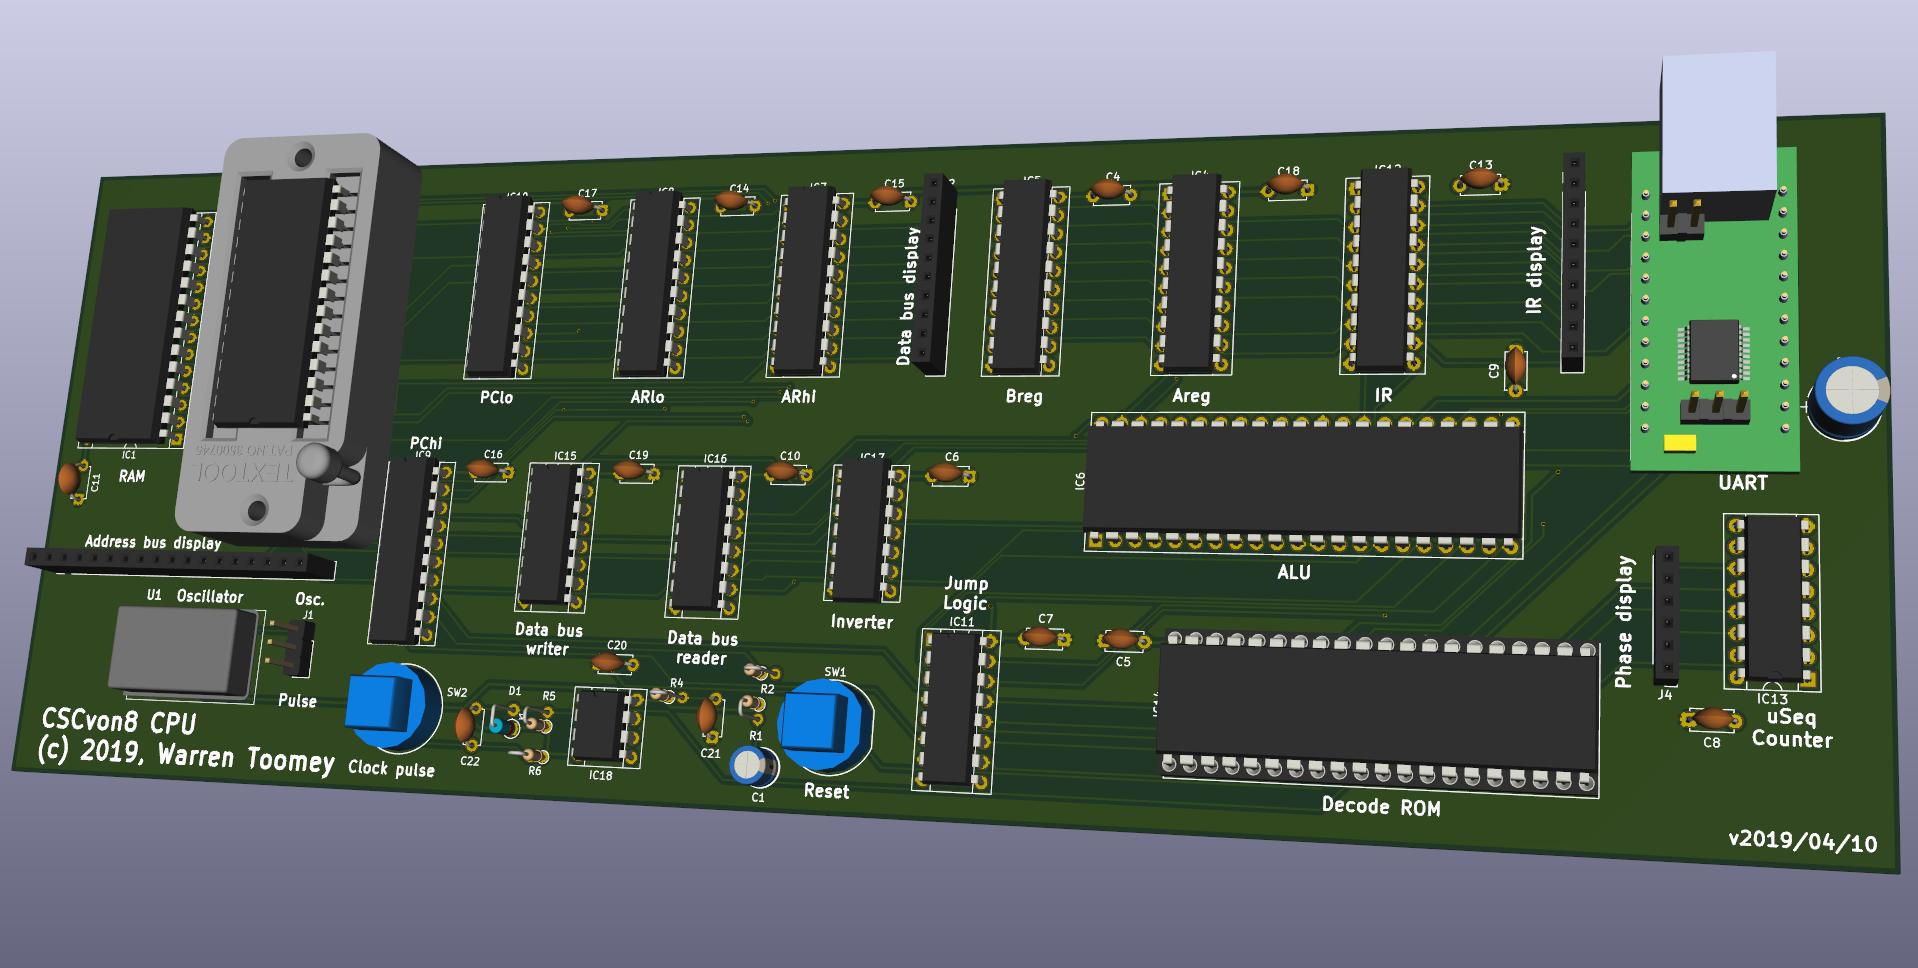
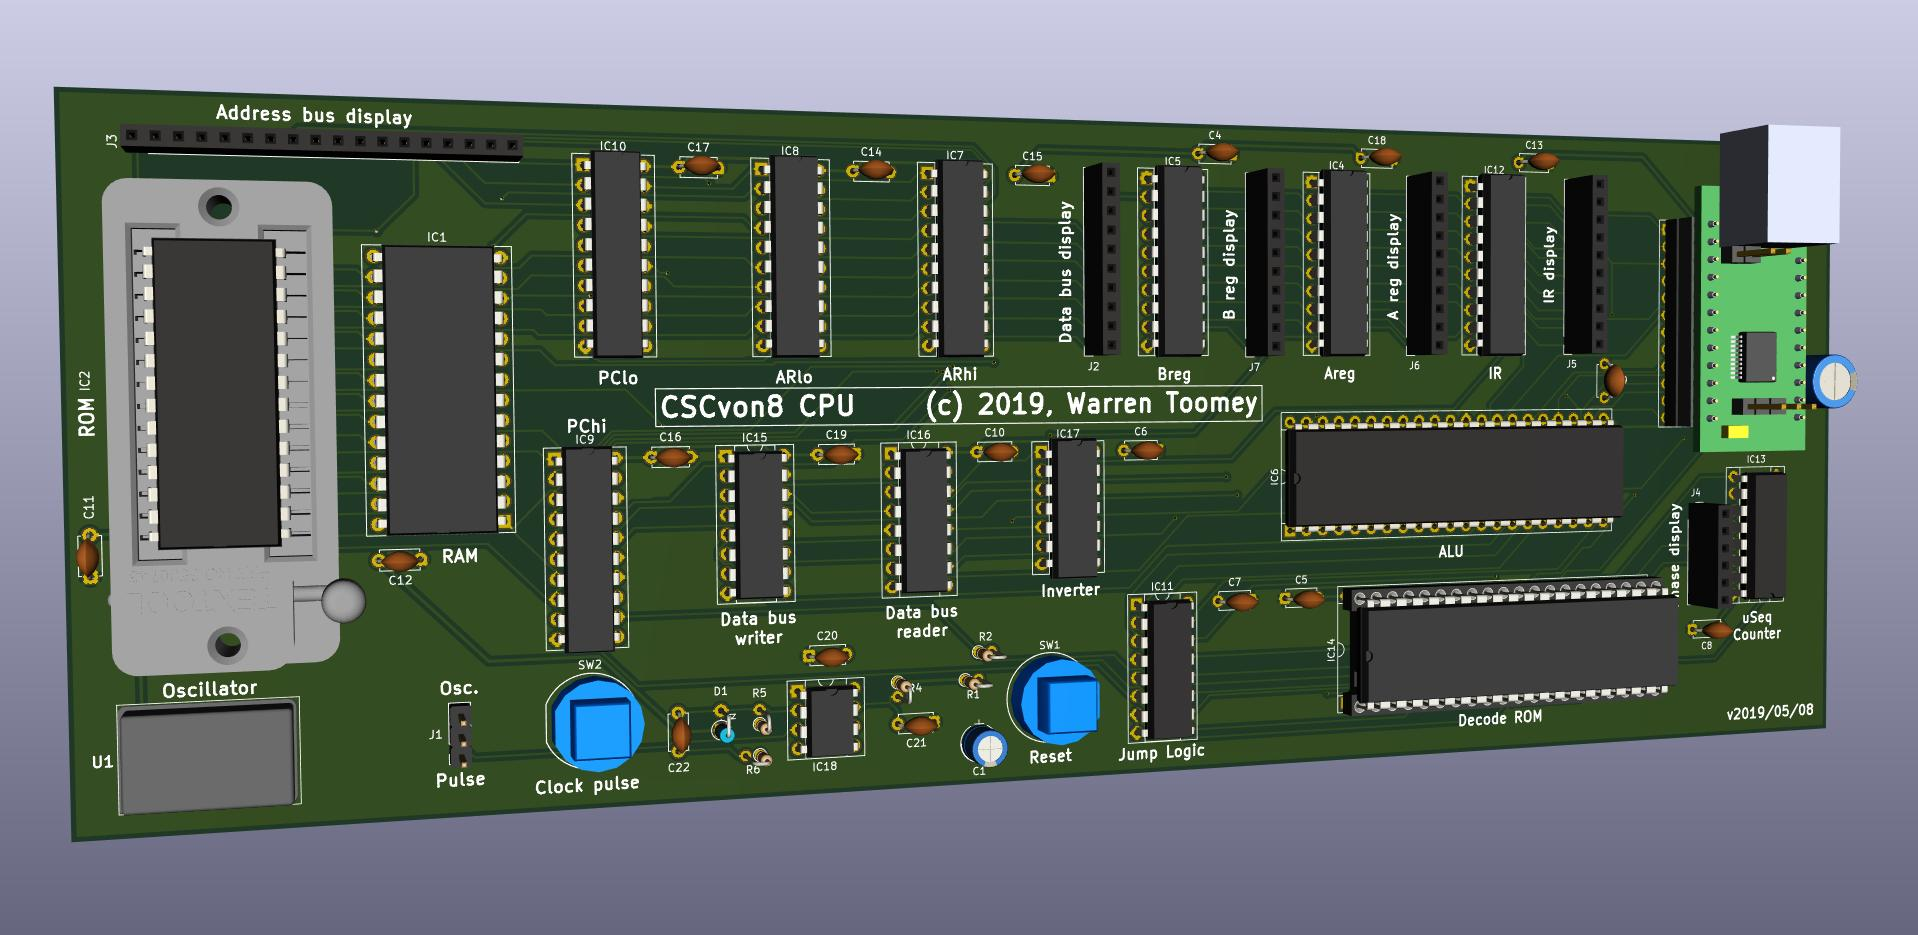
Updated the PCB image and my journal.

diff --git a/journal.md b/journal.md
@@ -2803,4 +2803,14 @@ the missing "6" indicates that we did take the jump. The microcode is:
 ```
 
 so I guess I could look at the Negative line and see if it has any noise
-on it. Not tonight though.
+on it. Not tonight though. I can also single step and look at the values
+on the status lines.
+
+## Thu  9 May 08:46:23 AEST 2019
+
+I've printed out the new schematic on A3 and spent about 20 minutes
+cross-checking the wiring, going back to the datasheets to confirm
+pins etc. It all looks fine. All I can see to change is the oscillator
+speed down to 1MHz. I'm happy with the PCB design from last night and it
+passes DRC with the BreadBoardKillers minimum track/via sizes. So, should
+I order some PCBs? OK, so I bit the bullet and ordered the PCBs.
